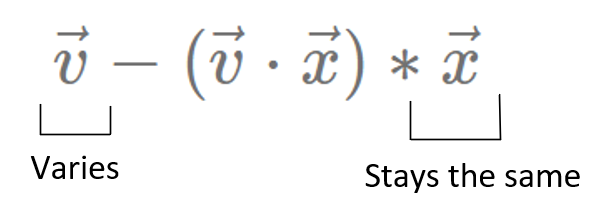
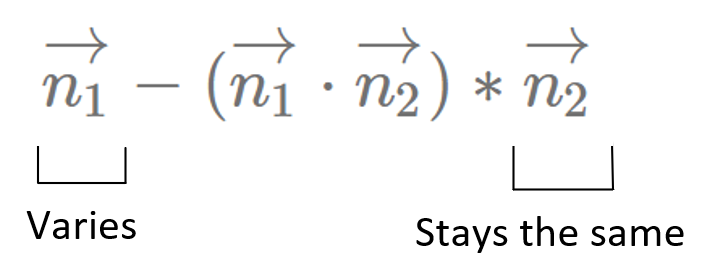
orth proj nonbasis

Changed region(s): [[0.18, 0.0938, 0.99, 0.9375], [0.03, 0.4688, 0.21, 0.875], [0.06, 0.0938, 0.15, 0.4375]]

diff --git a/ch2.2.md b/ch2.2.md
@@ -3,7 +3,7 @@ title: CHAPTER 2.2
 ---
 <script src="https://cdn.mathjax.org/mathjax/latest/MathJax.js?config=TeX-AMS-MML_HTMLorMML" type="text/javascript"></script>
 
-<h1>CHAPTER 2.2: Conditioning on Features using Orthogonal Projection</h1>
+<center><h2>CHAPTER 2.2: Conditioning on Features using Orthogonal Projection</h2></center>
 
 <a href="eduBlogHome.html">Home</a>
 
@@ -103,56 +103,32 @@ Now let's say we have a feature vector $$n_1 = (1,2)$$ and feature vector $$n_2 
 
 <img src="/ch2/nonBasisFeat.PNG" width="400" height="300">
 
-Recall from the previous section that if we wanted to vary the features of a vector $$v$$, but wanted to keep the value of x=3 at vector $$x$$, we used the equation:
+Recall from the previous section that if we wanted to vary the features of a vector $$n_1$$, but wanted to keep the value at vector $$n_2$$, we used the equation:
 
-<img src="/ch2/varies_same_1.PNG" width="300" height="100">
+<center><img src="/ch2/varies_same_1.PNG" width="300" height="100"></center>
 
-Here, let's use a similar version of the equation, but use orthogonal projection instead. This will find the vector scaled on $$HEIGHT$$ that's closest to $$v$$. The equation for orthogonal projection is:
+Here, let's use a similar version of the equation, but we will slightly modify the dot product projection to include a denominator term, as shown below:
 
-$$ \frac{(\vec{v} \cdot \vec{HEIGHT}) }{(\vec{HEIGHT} \cdot \vec{HEIGHT}) } * \vec{HEIGHT} $$
+$$ \frac{(\vec{n_1} \cdot \vec{n_2}) }{(\vec{n_2} \cdot \vec{n_2}) } * \vec{n_2} $$
 
-Then our equation for finding the green vector becomes:
+The reason this denominator was not needed in the previous example was because it measures the length of the vector being projected onto; in that case, vector $$\vec{n_2}$$ was a basis vector with a length of 1, so this term simplified to just the numerator.
 
-$$\vec{c} = \vec{v} - \frac{(\vec{v} \cdot \vec{HEIGHT}) }{(\vec{HEIGHT} \cdot \vec{HEIGHT}) } * \vec{HEIGHT} $$
+Then our equation for finding $$c$$ becomes:
 
-Any sample along:
+$$\vec{c} = \vec{n_1} - \frac{(\vec{n_1} \cdot \vec{n_2}) }{(\vec{n_2} \cdot \vec{n_2}) } * \vec{n_2} * \vec{n_2} $$
 
-$$\vec{v} + \alpha * \vec{c}$$
+This is the equation for **orthogonal projection**, which will find the vector scaled on $$n_2$$ that's closest to $$n_1$$. The proof for the equation is linked in the footnotes.[^orthProofs]
 
-... would vary features of $$AGE$$ while keeping the other features of $$n_2$$ roughly the same.
+[^orthProofs]: <a href="https://textbooks.math.gatech.edu/ila/projections.html"> Proof for the orthogonal projection equation</a>. Find it using ctrl+f "Recipe: Orthogonal projection onto a line". <a href="https://www.robertosmathnotes.com/uploads/8/2/3/9/8239617/la1-9_orthogonal_projections.pdf"> Another resource is here.</a>
 
-But why is this the case? When don't immediately see how this "preserves" the other features of $$n_2$$, like we saw how x=3 was preserved by going orthogonal to it in the previous section. Intuitively, it becomes more obvious when we perform a change of basis to measure our data in terms of $$n_2$$:
+But why is this the case? We don't immediately see how this "preserves" the other features of $$n_2$$, like we saw how $$n_2 = 3$$ was preserved by going orthogonal to it in the previous example. Intuitively, it becomes more obvious when we perform a change of basis to measure our data in terms of $$n_2$$:
+
+
 
 When there are more than two dimensions, this removal will leave more than just the basis vector
 
-
-OUTLINE:
-1. introduce n1, n2
-2. apply technique above but now need orth proj
-    We had dot product onto a vector...
-    Now, we need orthogonal projection to find the closest
-    add c to v, not cv, b/c only use cv to get DIRECTION. v is the actual sample. get variations in increments
-3. equation breakdown: varies, doesn't vary
-    question why this won't vary n2
-4. rotate v onto basis using inverse of rotation
-    to find rotation, find orthogonal. we have C
-5. plot v, v+c, and v+2c, etc onto new coord space
-    observe that they're all orthogonal to v, just like in previous section
-
-If we have multiple features we want to change, but 
-
-We have to be aware of which features 
-
 Essentially, this manipulation cannot make ALL features stay the same. We must know beforehand which features we want to stay the same, and which features we want to vary. Then, we will condition on the features we want to stay the same
 
-Note that this conditioning cannot force
-
-
-
-(project x onto v now, instead of v onto x. this is b/c 'preserve as much of v' while just changing x)
-
-(map v to the basis!)
-(the 2nd basis vector is just a feature that is orthogonal to v, allowing for a rotation, as rotations are orthogonal matrices)
 
 ---
 ---
